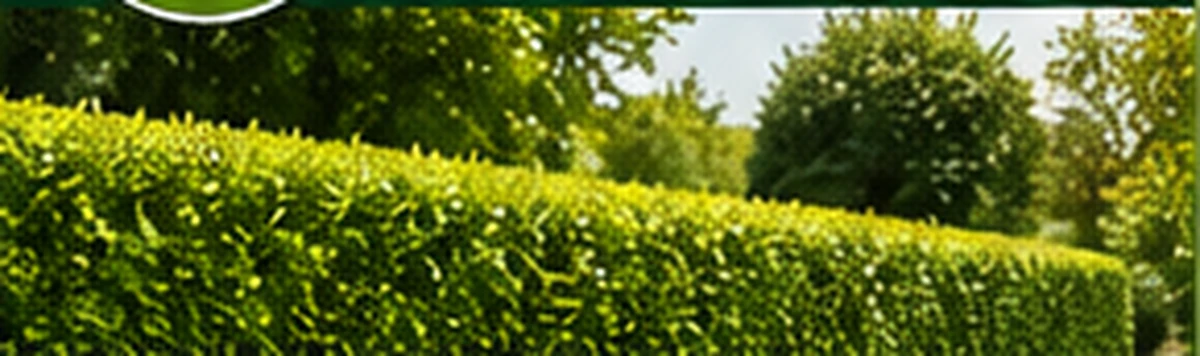
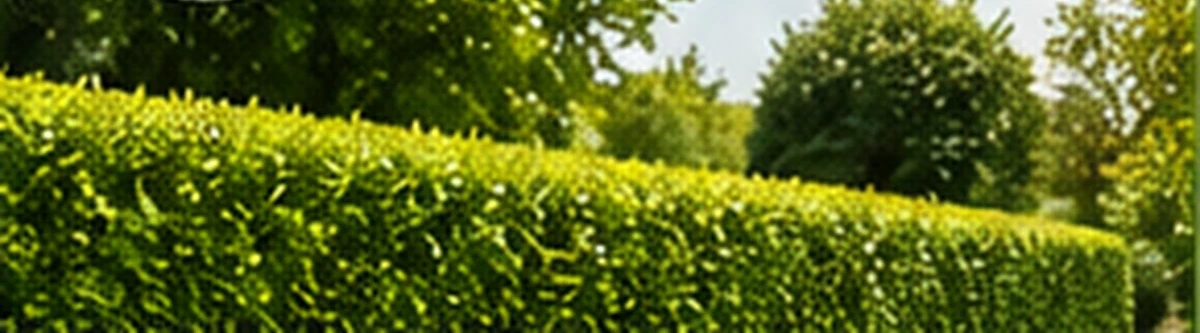
Polish Website v3

diff --git a/styles.css b/styles.css
@@ -172,7 +172,7 @@ a {
 
 .hero {
   position: relative;
-  min-height: 730px;
+  min-height: 0;
   overflow: hidden;
   color: white;
   background:
@@ -195,9 +195,9 @@ a {
   position: relative;
   z-index: 2;
   width: min(1180px, calc(100% - 34px));
-  min-height: 625px;
+  min-height: 620px;
   margin: 0 auto;
-  padding: 74px 0 96px;
+  padding: 68px 0 64px;
   display: grid;
   grid-template-columns: minmax(0, 1fr) minmax(330px, 0.54fr);
   gap: 65px;
@@ -336,8 +336,8 @@ h1 em {
 
 .hero-price-card {
   position: relative;
-  align-self: end;
-  margin-bottom: 8px;
+  align-self: center;
+  margin-bottom: 0;
   padding: 28px;
   border: 1px solid rgba(255, 255, 255, 0.26);
   border-radius: 22px;
@@ -395,11 +395,8 @@ h1 em {
 }
 
 .hero-bottom {
-  position: absolute;
+  position: relative;
   z-index: 4;
-  right: 0;
-  bottom: 0;
-  left: 0;
   min-height: 106px;
   display: grid;
   grid-template-columns: repeat(3, minmax(0, 1fr));
@@ -518,6 +515,7 @@ h1 em {
   width: 100%;
   height: 195px;
   object-fit: cover;
+  object-position: center;
   background: var(--cream);
 }
 
@@ -1179,7 +1177,7 @@ h1 em {
     min-height: 0;
     background:
       linear-gradient(180deg, rgba(0, 37, 20, 0.74), rgba(0, 43, 24, 0.96) 74%),
-      url("/images/garden-tidy.webp") center 38% / cover no-repeat;
+      url("/images/garden-tidy.webp") center 48% / cover no-repeat;
   }
 
   .hero-inner {

diff --git a/index.html b/index.html
@@ -18,7 +18,7 @@
     href="https://fonts.googleapis.com/css2?family=Bebas+Neue&family=DM+Sans:wght@400;500;600;700;800;900&family=Yellowtail&display=swap"
     rel="stylesheet"
   />
-  <link rel="stylesheet" href="/styles.css?v=3" />
+  <link rel="stylesheet" href="/styles.css?v=4" />
 </head>
 
 <body>
